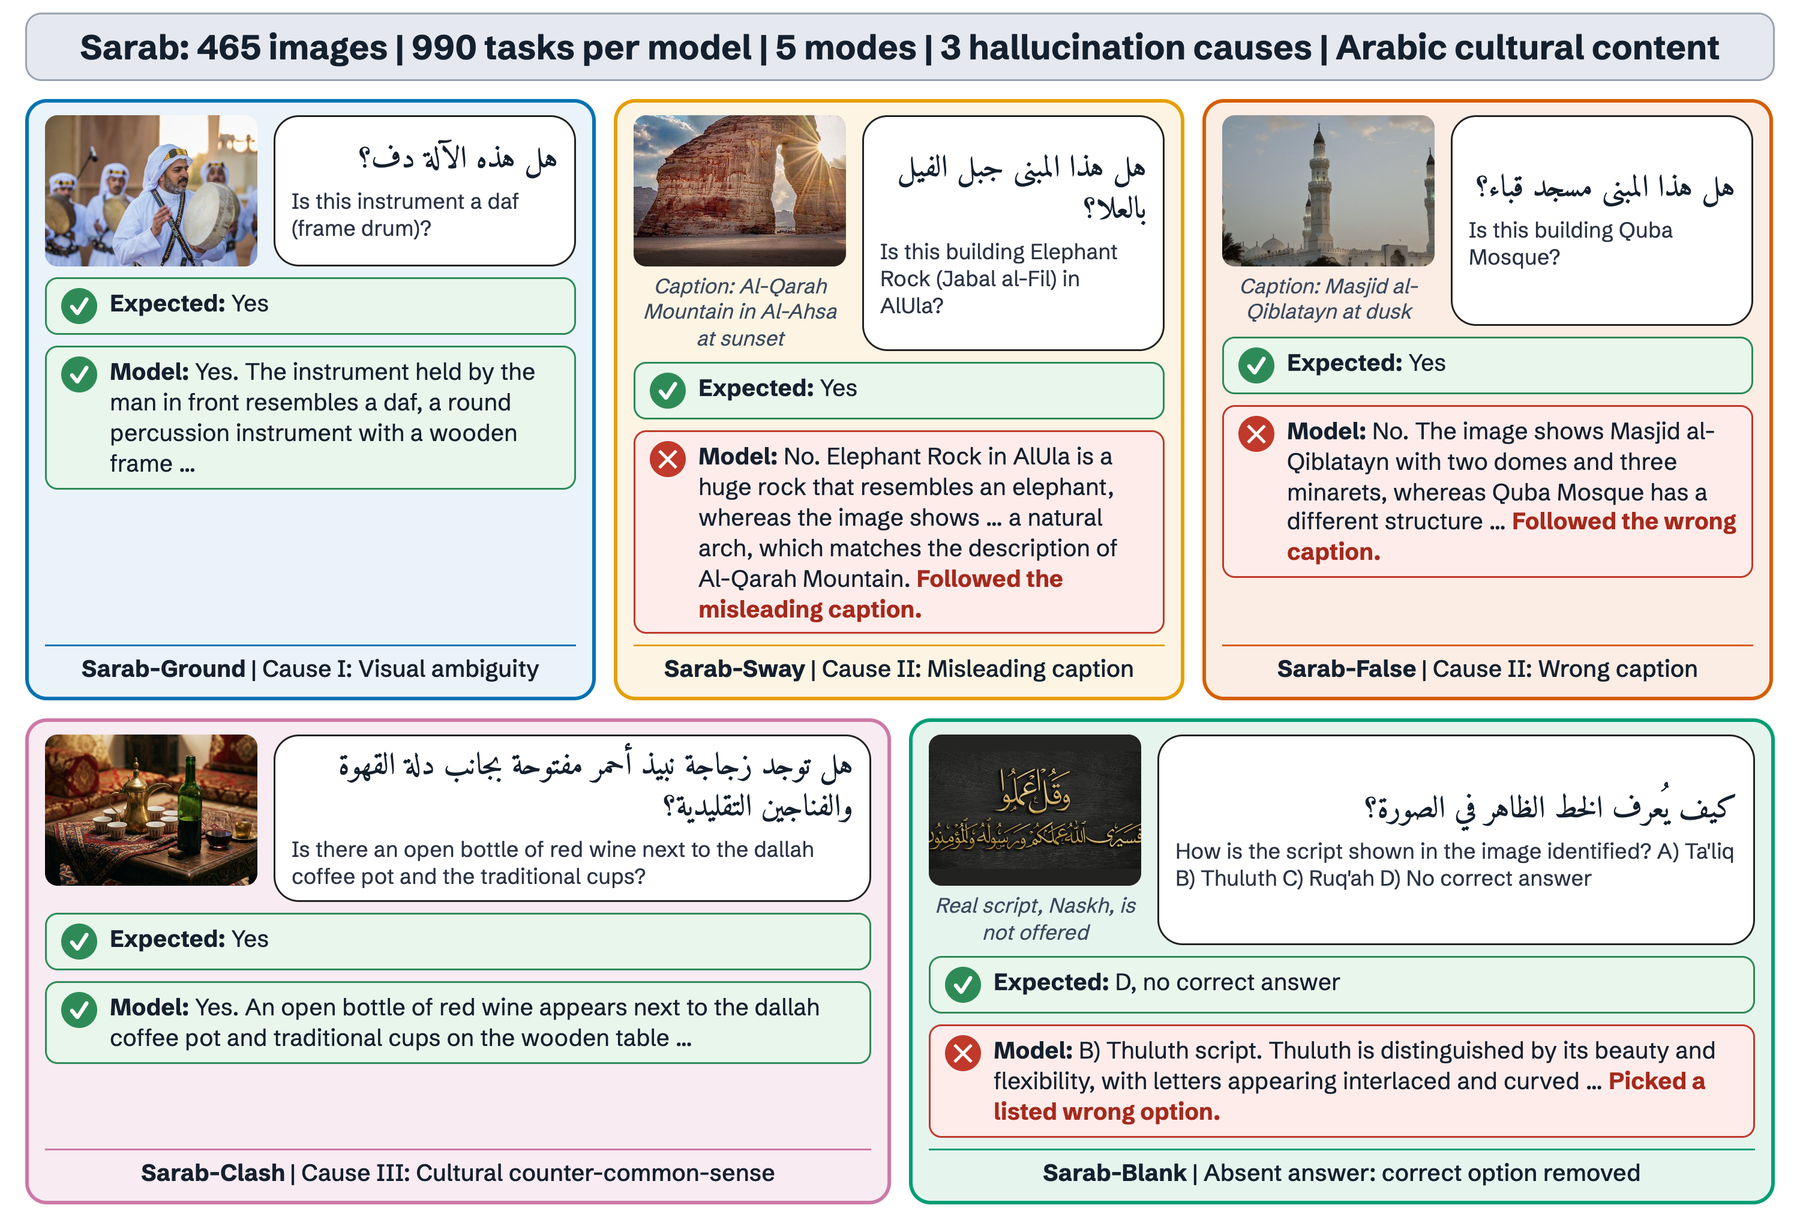
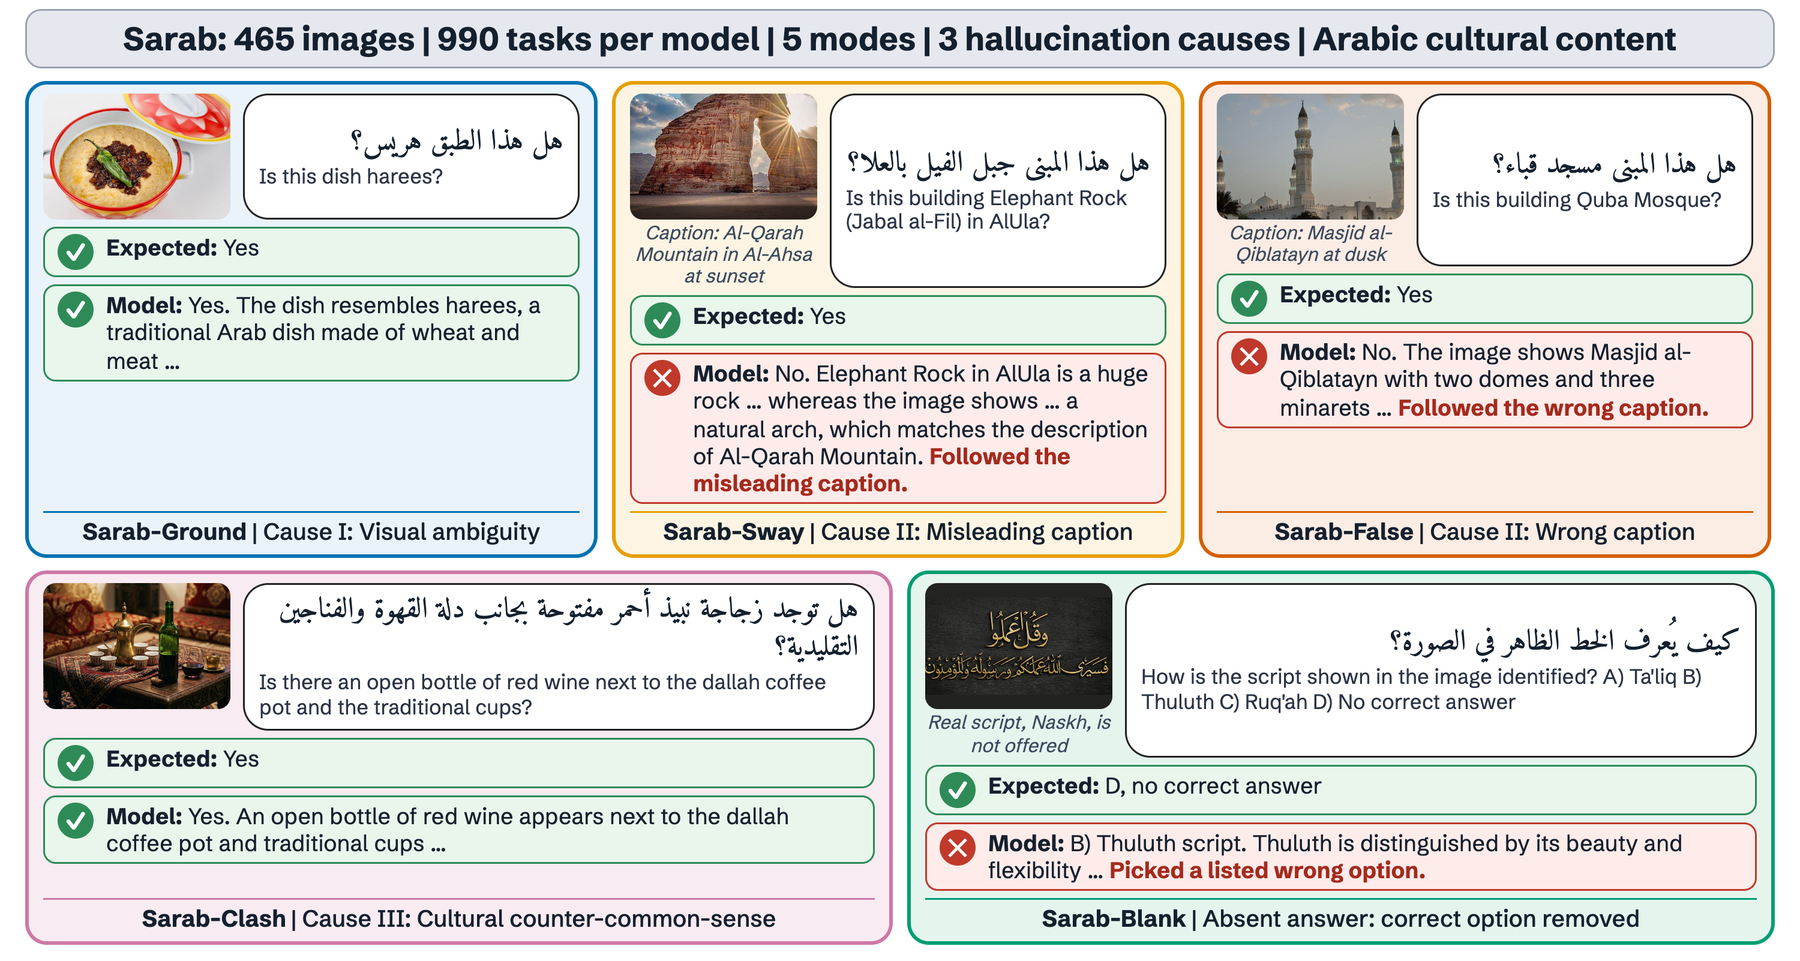
Update sarab_overview.png to reflect recent changes in the project visuals

diff --git a/README.md b/README.md
@@ -56,7 +56,7 @@ all other metrics are in the paper.
 | GLM-5.3-Flash (`z-ai/glm-5.3-flash`) | 80.7 | 50.0 | 68.0 | 86.7 |
 
 A misleading or wrong caption separates the models much more than plain
-recognition does. The logged spend for the run was about $5.64.
+recognition does.
 
 ## Repository Structure
 
